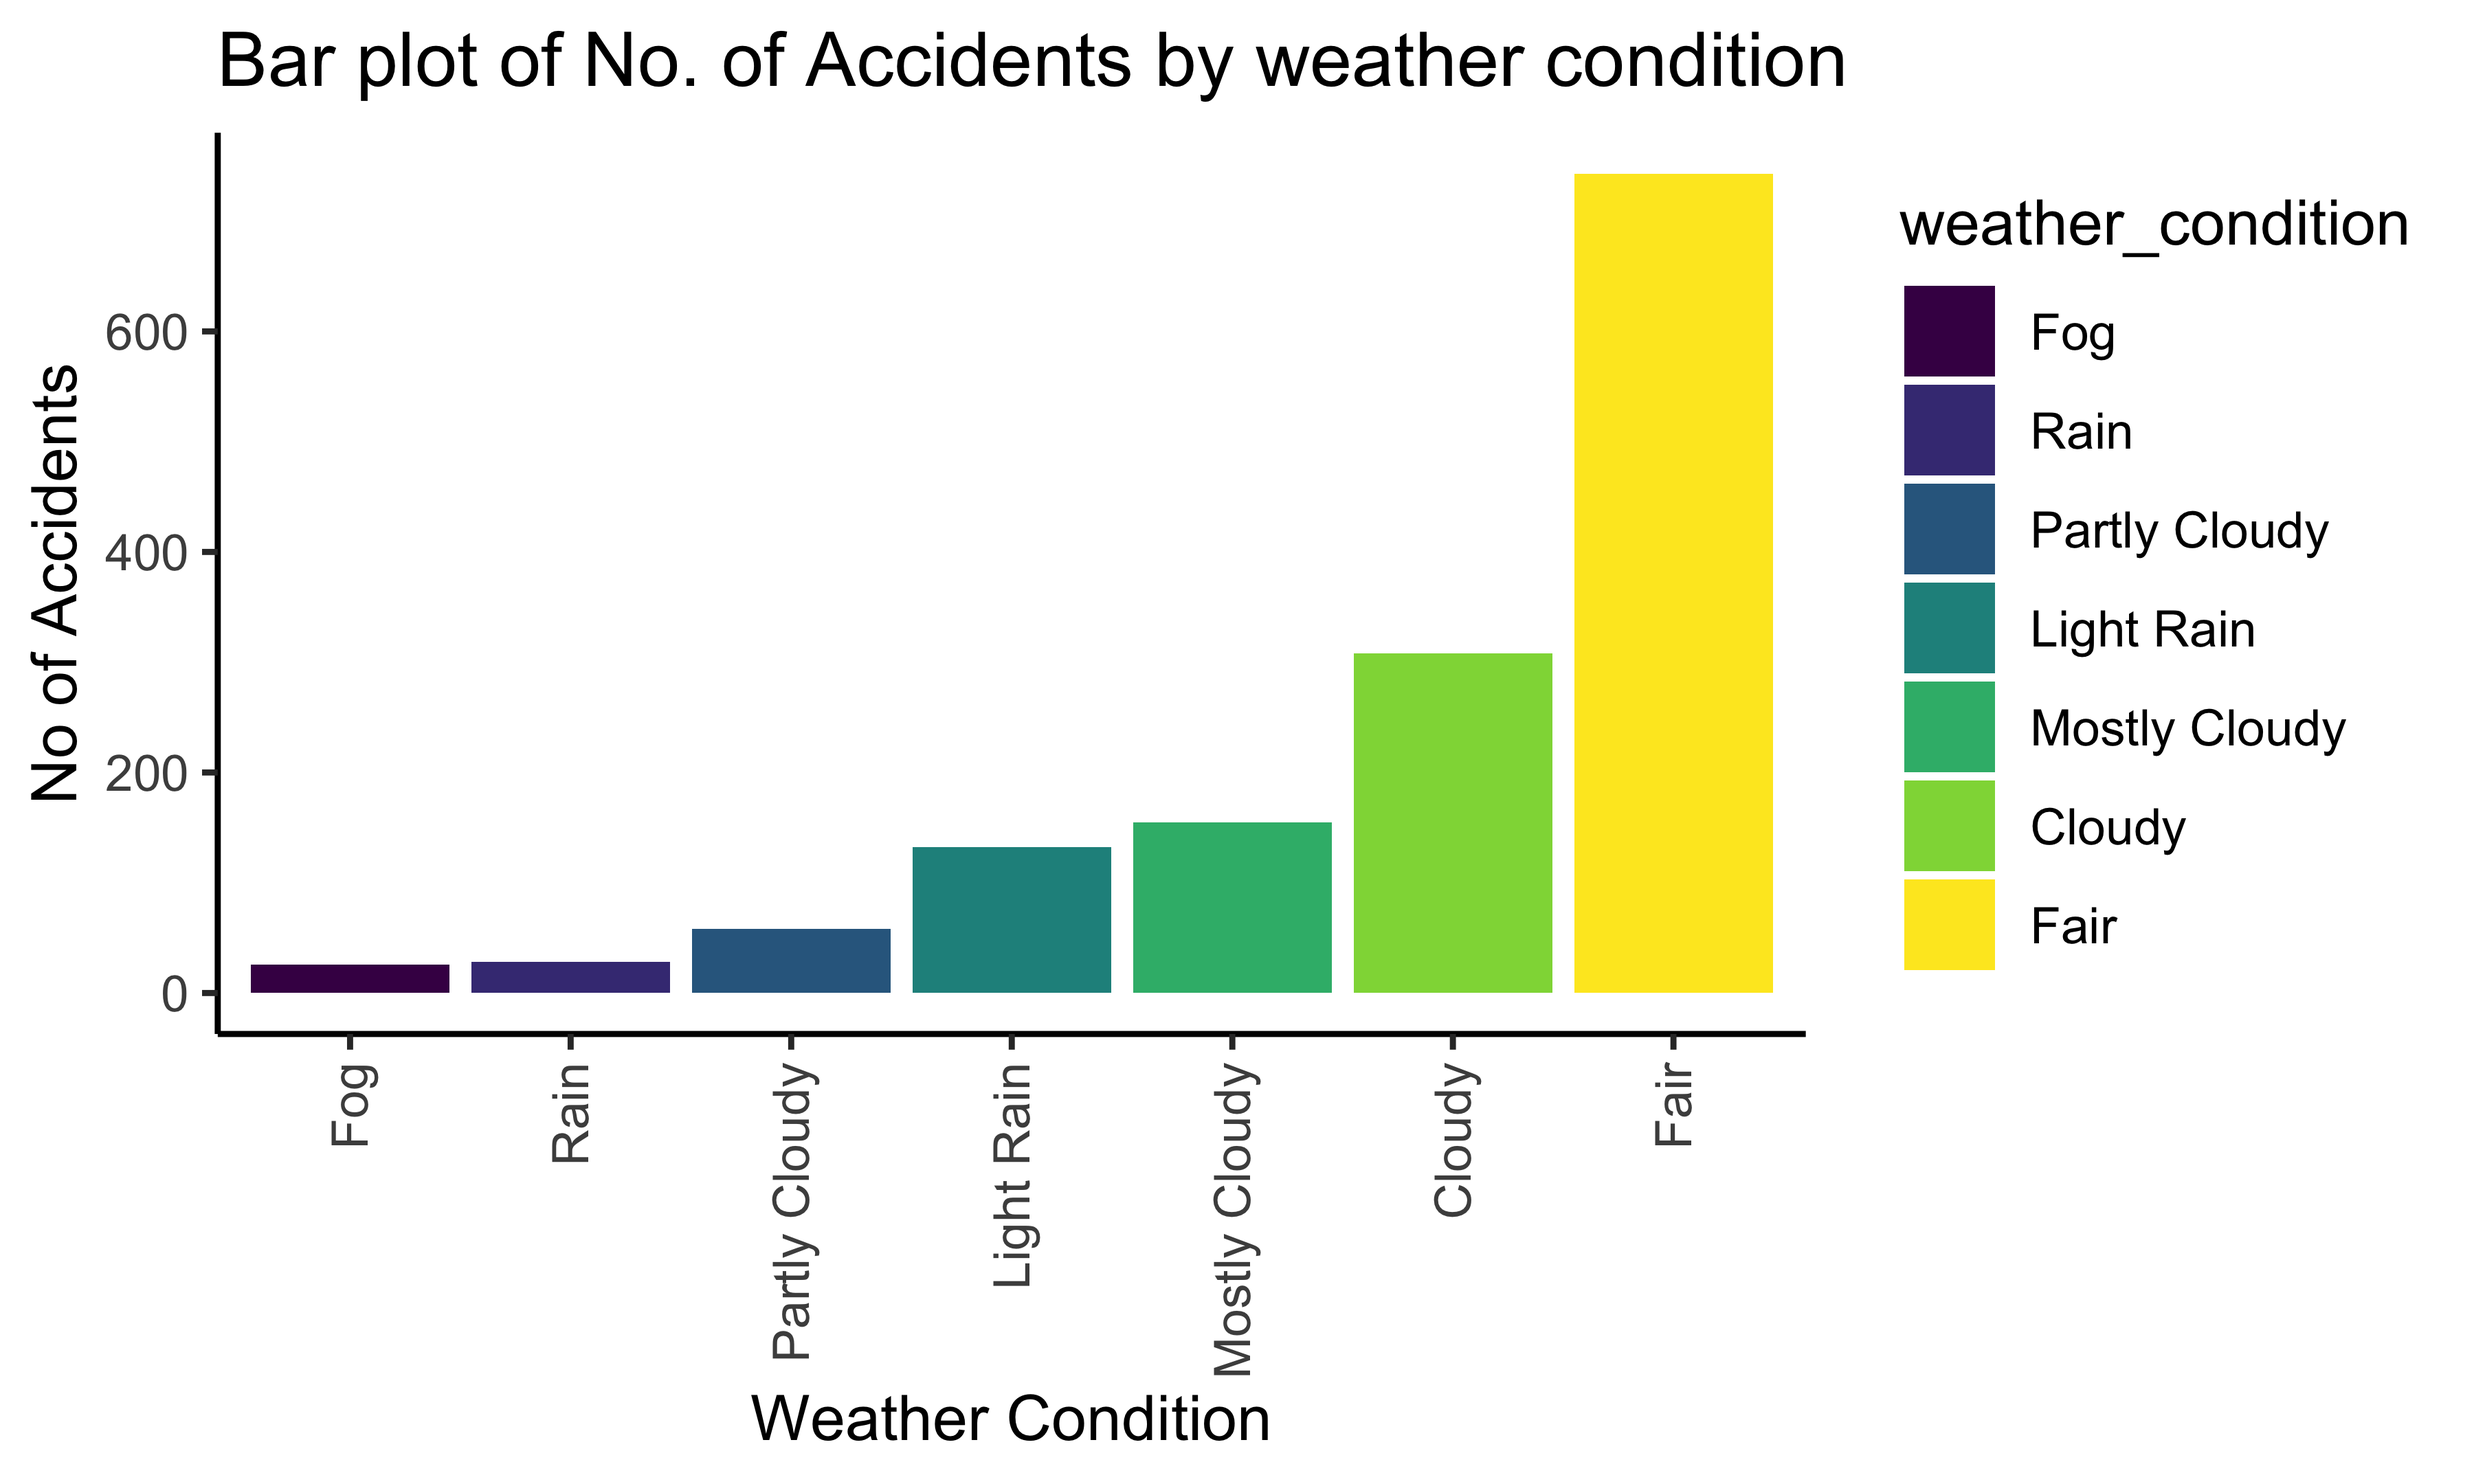
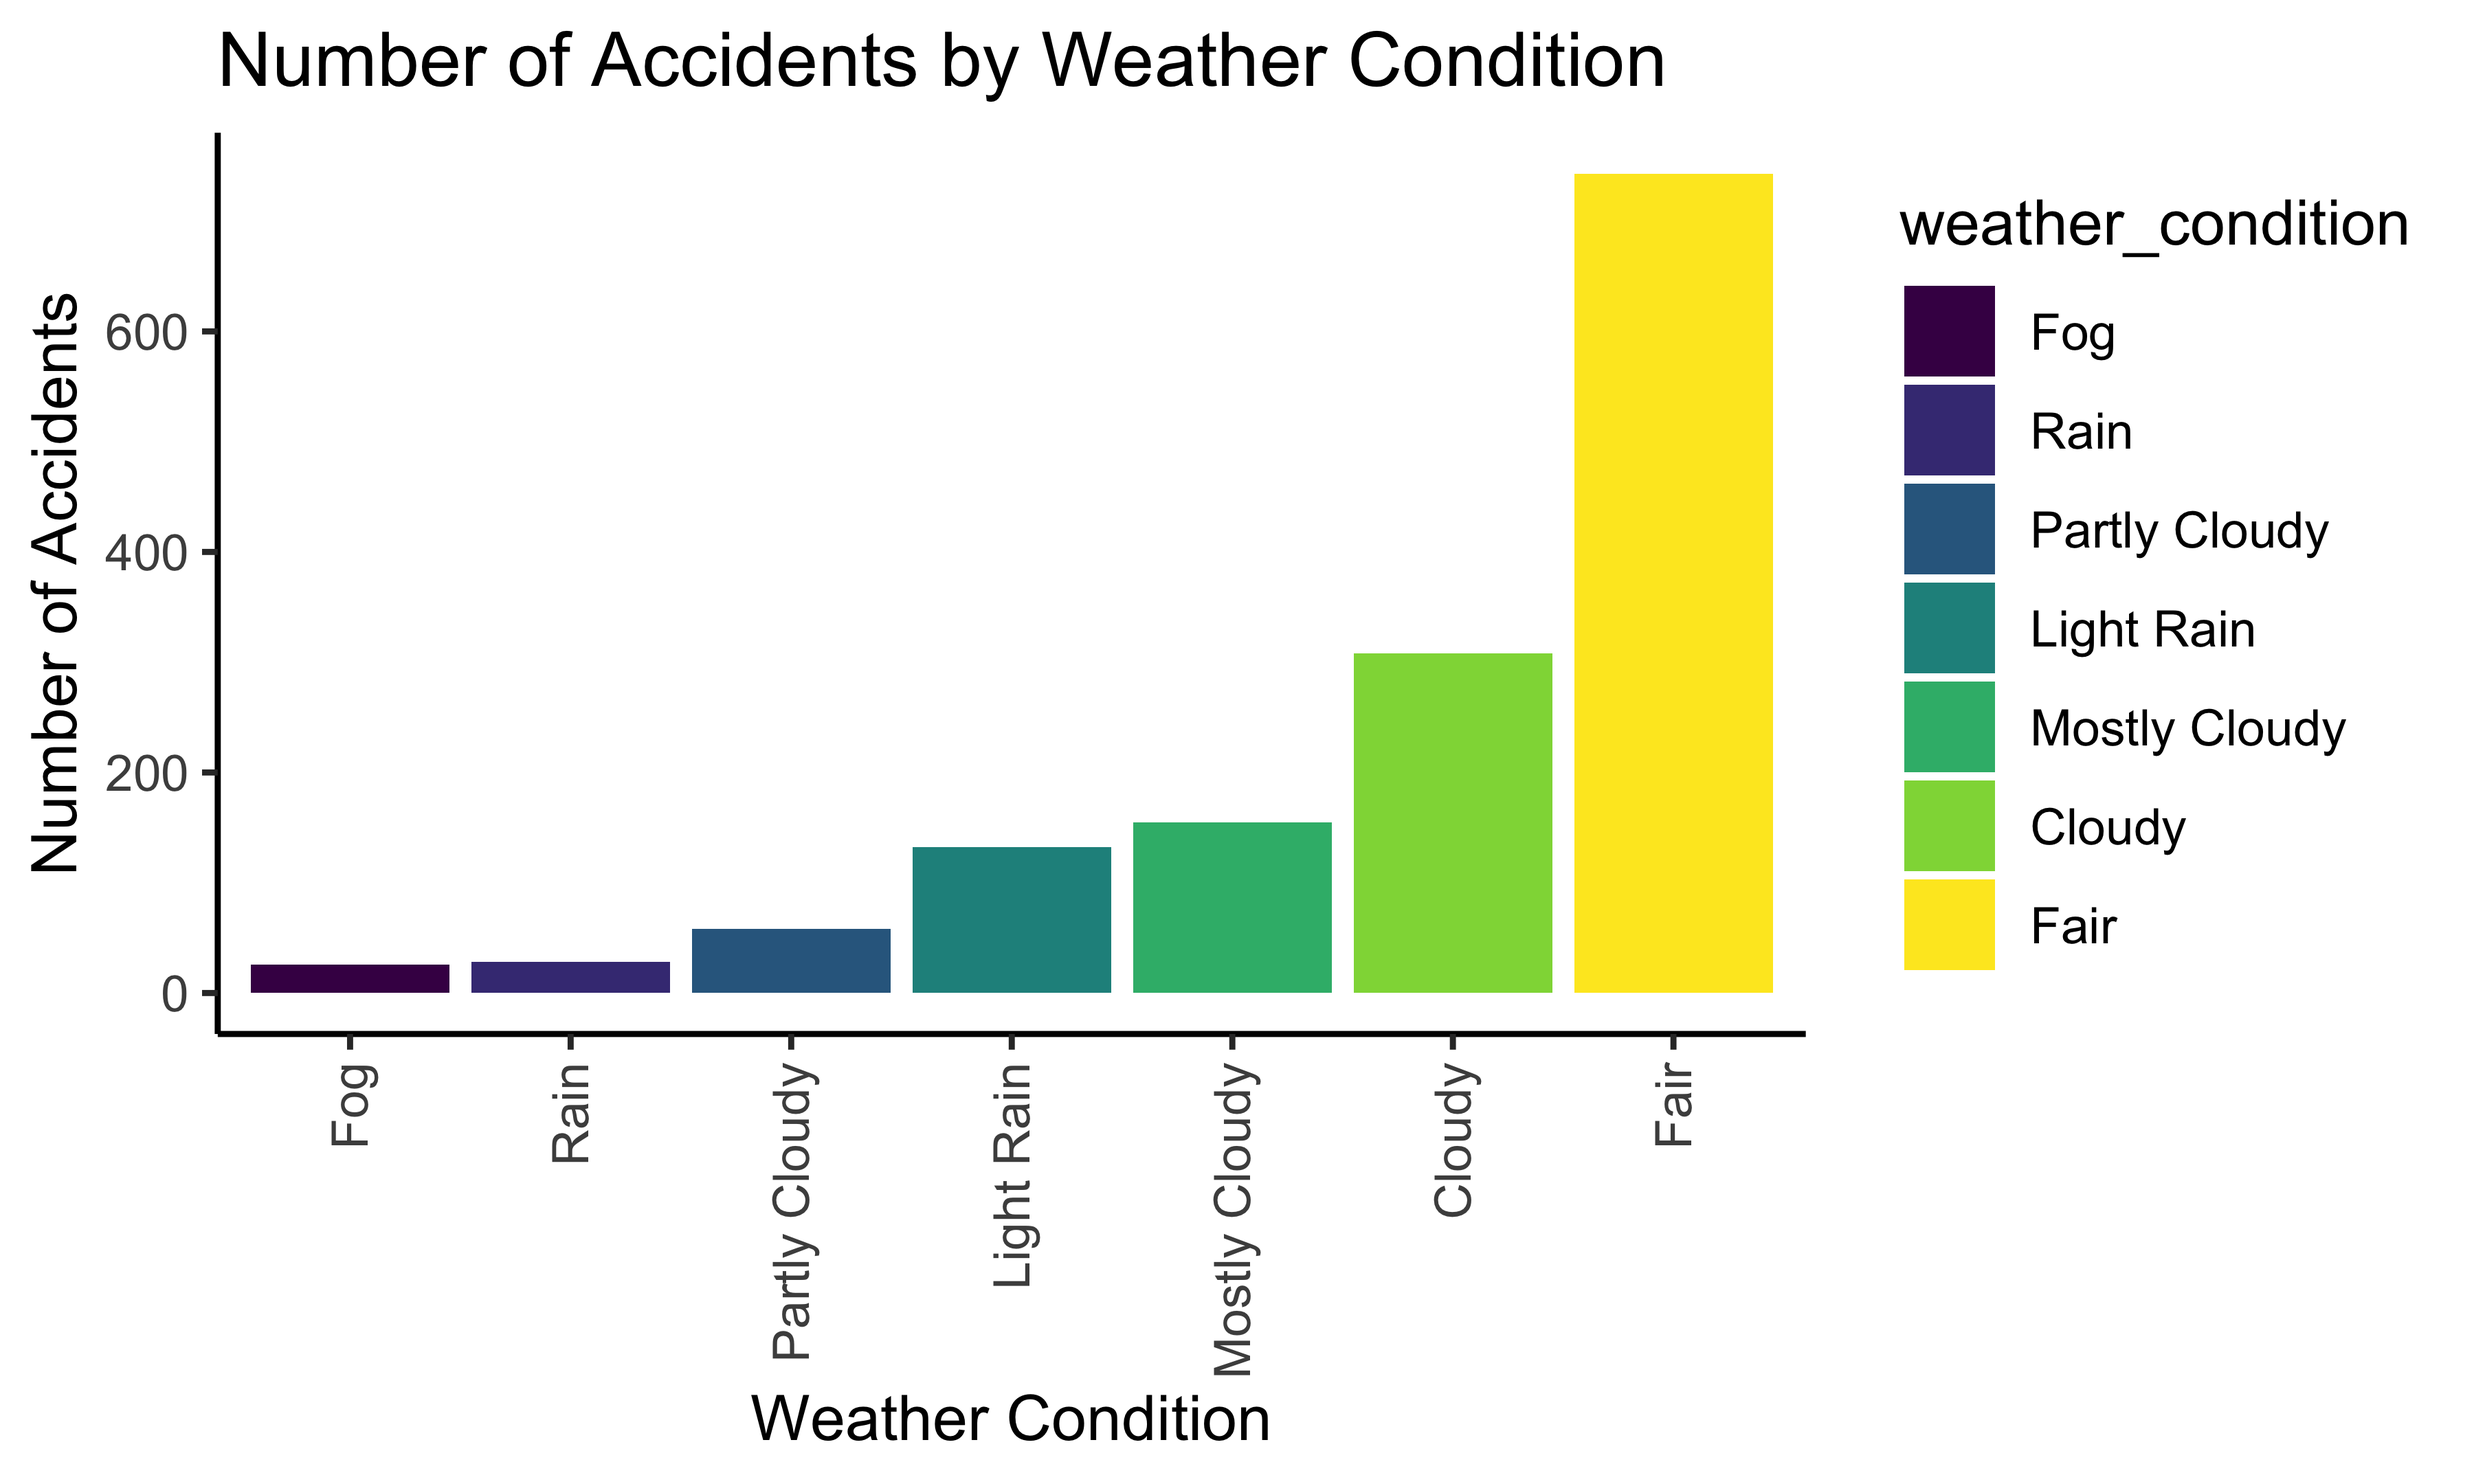
Update the weather and car_type page

Changed region(s): [[0.0933, 0.0, 0.7467, 0.062], [0.0, 0.1861, 0.0311, 0.5894]]

diff --git a/weather.html b/weather.html
@@ -411,13 +411,15 @@ div.tocify {
 </div>
 
 
-<p><br></p>
-<p>We also investigated how weather conditions could make an impact on
-car accidents.</p>
-<p><br></p>
-<div id="bar-chart-of-accidents-in-different-weather-condition"
-class="section level2">
-<h2>Bar chart of accidents in different weather condition</h2>
+<div id="weather-and-accidents" class="section level3">
+<h3>Weather and Accidents</h3>
+<p>We also want to investigate how weather conditions make impacts on
+car accidents. Weather conditions and wind speed will be used to examine
+the relationship between weather and accidents’ severity.</p>
+</div>
+<div id="number-of-accidents-in-different-weather-condition"
+class="section level3">
+<h3>Number of Accidents in Different Weather Condition</h3>
 <pre class="r"><code>accident_weather_table = accidents2 %&gt;% 
   group_by(weather_condition) %&gt;% 
   dplyr::summarize(obs = n()) %&gt;% 
@@ -430,64 +432,61 @@ accident_weather_bar = accident_weather_table %&gt;%
   ggplot(aes(x = weather_condition, y = obs, fill = weather_condition)) +
   geom_bar(stat = &quot;identity&quot;) + 
   theme_classic() + 
-  labs(title = &quot;Bar plot of No. of Accidents by weather condition&quot;, 
-       y = &quot;No of Accidents&quot;, 
+  labs(title = &quot;Number of Accidents by Weather Condition&quot;, 
+       y = &quot;Number of Accidents&quot;, 
        x = &quot;Weather Condition&quot;) 
 
 accident_weather_bar + theme(axis.text.x = element_text(angle = 90, vjust = 0.5, hjust=1))</code></pre>
 <p><img src="weather_files/figure-html/unnamed-chunk-2-1.png" width="90%" /></p>
 <p>The plot shows the frequency of accidents by weather. The most common
-weather condition of accidents id Fair, which actually is a little away
-from common sense. There are two possible reasons. The first one is
-there are much more days of fair than other weather in 2020 of New York.
-So it is reasonable that the frequency in fair weather is higher. The
-other reason is that during fair weather, people tends to behave less
-caution. Thus the probability of accidents increases. This question
-worth further research, which has been list in our group’s further
-research plan. Other commonn types of weather are Cloudy, Mostly
-Cloudly, Light Rain, Partly Cloudly, Rain and Fog.</p>
+weather condition of accidents is fair, which may deviate from common
+sense. There are two possible reasons. The first one is that there are
+many more days of fair than other weather in 2020 in New York.
+Therefore, it is reasonable that the frequency in fair weather is
+higher. The other reason is that during fair weather, people tend to
+behave with less caution. Thus the probability of accidents increases.
+This question is worth further research, which has been listed in our
+group’s further research plan. Other common types of weather are cloudy,
+mostly cloudy, light rain, partly cloudy, rain, and fog.</p>
 <p><br></p>
 </div>
-<div id="total-accidents-by-wind-speed" class="section level2">
-<h2>Total accidents by wind-speed</h2>
+<div id="total-accidents-by-wind-speed" class="section level3">
+<h3>Total Accidents by Wind Speed</h3>
 <pre class="r"><code>accidents_windspeed = accidents2 %&gt;% 
   ggplot(aes(x = wind_speed_mph, y = ..density..)) +
   geom_histogram(color = &quot;darkblue&quot;, fill = &quot;lightblue&quot;) +
   labs(
-    title = &quot;Histogram of No. of Accidents by wind speed&quot;, 
-       x = &quot;Wind speed&quot;
-  ) + geom_density()
+    title = &quot;Number of Accidents by Wind Speed&quot;, 
+       x = &quot;Wind Speed(mph)&quot;
+  ) + 
+  geom_density()
 accidents_windspeed</code></pre>
 <p><img src="weather_files/figure-html/unnamed-chunk-3-1.png" width="90%" /></p>
-<p>The plot shows the frequency of accidents by wind speed. As shown in
-plot, the distribution of frequency is right-skewed. The most common
-wind speed is from 0 to 7.5. The frequency of this interval is higher
-than 150. From 7.5 to 12.5, the frequency is fairly common. And the
-frequency of wind speed larger than 12.5 is less than 25.</p>
-<p><br></p>
+<p>Next, this plot shows the frequency of accidents by wind speed. As
+shown in the plot, the distribution of frequency is right-skewed. The
+most common wind speed is from 0 to 7.5 miles per hour. The frequency of
+this interval is higher than 150. From 7.5 to 12.5 miles per hour, the
+frequency is moderate. The frequency of car accidents with wind speed
+larger than 12.5 miles per hour is less than 25.</p>
 </div>
-<div id="severity-and-wind-speed" class="section level2">
-<h2>Severity and wind speed</h2>
-<pre class="r"><code>ggplot(accidents2, aes(x = wind_speed_mph))+
-  geom_boxplot(color=&quot;black&quot;, fill=&quot;light blue&quot;)+
-  facet_grid(severity ~ .)</code></pre>
-<p><img src="weather_files/figure-html/unnamed-chunk-4-1.png" width="90%" /></p>
+<div id="severity-and-wind-speed" class="section level3">
+<h3>Severity and Wind Speed</h3>
 <pre class="r"><code>ggplot(accidents2, aes(x = wind_speed_mph, y = severity)) + 
   geom_violin(trim = FALSE, fill = &quot;light blue&quot;) +
   theme_bw() +
   coord_flip() +
   labs(
-    title = &quot;Violin of Wind speed vs Severity&quot;, 
-       y = &quot;Wind Speed&quot;, 
+    title = &quot;Distribution of Severity vs Wind Speed&quot;, 
+       y = &quot;Wind Speed(mph)&quot;, 
        x = &quot;Severity Level&quot;
   )</code></pre>
-<p><img src="weather_files/figure-html/unnamed-chunk-4-2.png" width="90%" /></p>
+<p><img src="weather_files/figure-html/unnamed-chunk-4-1.png" width="90%" /></p>
 <p>This violin plot shows the range of wind speed in each severity
 level. The most common severity is severity 2. For severity 2, the range
-of wind speed is from 0 and 20. In severity 3, the range is from 8 to
-12.5. The range of wind speed of severity 4 is from 9 to 11.25. In
-severity 1, there are only 4 observations, so there is only a line for
-severity 1.</p>
+of wind speed is from 0 to 20 miles per hour. For severity 3, the range
+is from 8 to 12.5 miles per hour. The range of wind speed of severity 4
+is from 9 to 11.25 miles per hour. For severity 1, there are only 4
+observations, so there is only a line for severity 1.</p>
 </div>
 
 

diff --git a/car_types.html b/car_types.html
@@ -411,9 +411,12 @@ div.tocify {
 </div>
 
 
+<div id="car-accident-by-car-type" class="section level3">
+<h3>Car Accident by Car Type</h3>
 <p>Then, we want to know how types of cars are associated with the
 number of accidents. A bar plot of the number of accidents by car type
 clearly represents the relationship.</p>
+</div>
 <div id="number-of-accidents-by-car-type" class="section level3">
 <h3>Number of Accidents by Car Type</h3>
 <pre class="r"><code>accidents2 = accidents1 %&gt;% 
